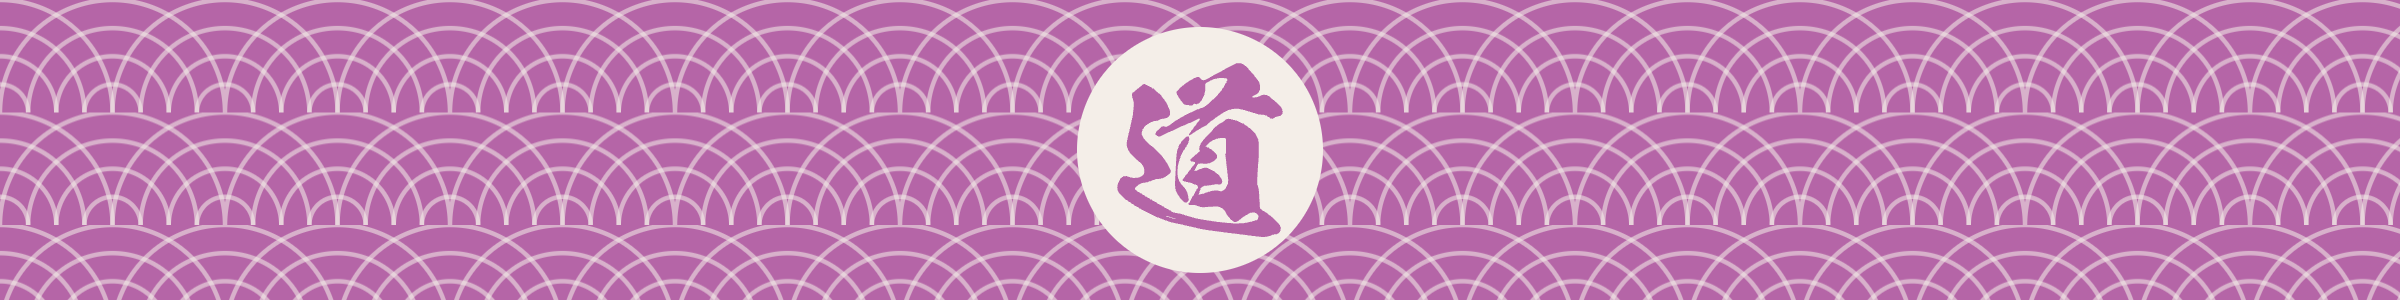
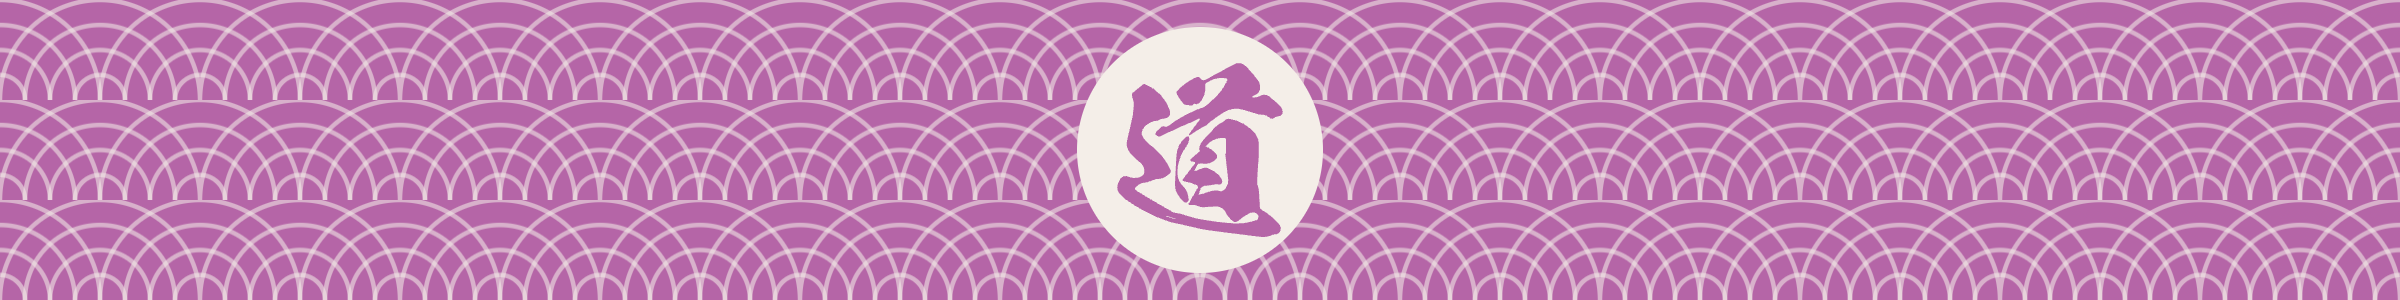
Chapter art: rescale seigaiha to an exact 3 rows (no partial row)
The banner seigaiha tile was 75 tall on a 200-tall banner (200/75 = 2.67
rows), leaving a partial row. Set the tile to 2*H/3 so the vertical
period is H/3 — exactly 3 rows fit the height (and 12 columns across the
1600 width). Fix gen_chapter_art.py (source of truth) and patch the seven
existing self-contained SVGs to match, then re-rasterise the PNGs.

diff --git a/.agents/skills/book-build/scripts/gen_chapter_art.py b/.agents/skills/book-build/scripts/gen_chapter_art.py
@@ -65,9 +65,10 @@ def make_glyphs(font_path, weight=600):
 def seigaiha(pid, color, op, tile, sw):
     h = tile / 2
     rs = [h, h * 0.75, h * 0.5, h * 0.25]
-    circles = "".join(f'<circle cx="{cx}" cy="{h}" r="{r}"/>'
+    q = lambda v: f"{v:.4f}".rstrip("0").rstrip(".")
+    circles = "".join(f'<circle cx="{q(cx)}" cy="{q(h)}" r="{q(r)}"/>'
                       for cx in (0, h, tile) for r in rs)
-    return (f'<pattern id="{pid}" width="{tile}" height="{h}" '
+    return (f'<pattern id="{pid}" width="{q(tile)}" height="{q(h)}" '
             f'patternUnits="userSpaceOnUse"><g fill="none" stroke="{color}" '
             f'stroke-opacity="{op}" stroke-width="{sw}">{circles}</g></pattern>')
 
@@ -80,9 +81,11 @@ def banner_svg(slug, ch, acc, glyph):
         mcx, mcy, R, kth = W // 2, 100, 82, 116
         moon = (f'<circle cx="{mcx}" cy="{mcy}" r="{R}" fill="{CREAM}"/>'
                 f'{glyph(ch, kth, mcx, mcy, acc)}')
+    # seigaiha tile = 2*H/3, so the vertical period (h = tile/2) is H/3 — exactly
+    # 3 wave rows fit the banner height with no partial row (and 12 columns across W).
     return (f'<svg xmlns="http://www.w3.org/2000/svg" viewBox="0 0 {W} {H}" '
             f'preserveAspectRatio="xMidYMid slice">'
-            f'<defs>{seigaiha("s"+sfx, CREAM, 0.55, 150, 3)}</defs>'
+            f'<defs>{seigaiha("s"+sfx, CREAM, 0.55, 2 * H / 3, 3)}</defs>'
             f'<rect width="{W}" height="{H}" fill="{acc}"/>'
             f'<rect width="{W}" height="{H}" fill="url(#s{sfx})"/>'
             f'{moon}</svg>')
